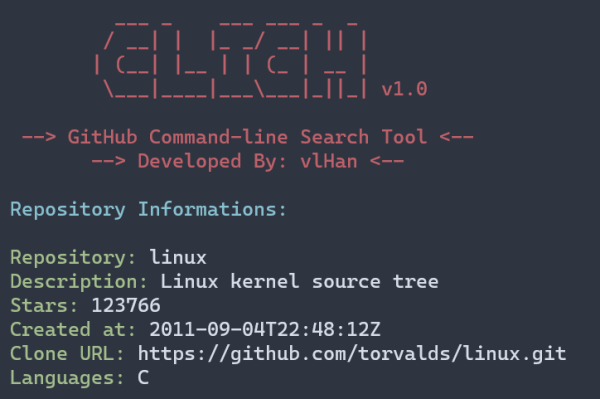
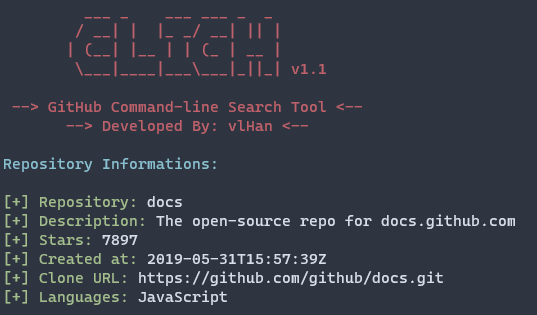
V1.1

diff --git a/modules/packages/display.py b/modules/packages/display.py
@@ -1,12 +1,12 @@
 # -*- coding: utf-8 -*-
 import requests
 from colorama import Style, Fore
-import sys
+import sys, os
 
 from modules.packages.exceptions import *
 
 __author__ = "vlHan"
-__version__ = "1.0"
+__version__ = "1.1"
 __license__ = "MIT"
 
 GITHUB_API_BASE = "https://api.github.com/"
@@ -15,8 +15,7 @@ RA = Style.RESET_ALL
 
 class cligh:
     def __init__(self, username: str, repository: str, endopoint: str) -> None:
-        """CLI Search tool for GitHub.
-        """
+        """CLI Search tool for GitHub."""
         self.username   = username
         self.repository = repository
         self.endpoint   = endopoint
@@ -30,20 +29,20 @@ class cligh:
         except requests.ConnectionError:
             raise requests.ConnectionError
 
-        if not "message" in response:
+        if req.status_code == 200:
             print(f"{Fore.CYAN}User Informations:{RA}\n")
             print(
-                f"{Fore.GREEN}Username:{RA} {response['login']}"
-                f"\n{Fore.GREEN}ID:{RA} {response['id']}"
-                f"\n{Fore.GREEN}Bio:{RA} {response['bio']}"
-                f"\n{Fore.GREEN}Location:{RA} {response['location']}"
-                f"\n{Fore.GREEN}Company:{RA} {response['company']}"
-                f"\n{Fore.GREEN}Web URL:{RA} {response['html_url']}"
-                f"\n{Fore.GREEN}Public Repos:{RA} {response['public_repos']}"
-                f"\n{Fore.GREEN}Blog/Website:{RA} {response['blog']}"
+                f"{Fore.GREEN}[+] Username:{RA} {response['login']}"
+                f"\n{Fore.GREEN}[+] ID:{RA} {response['id']}"
+                f"\n{Fore.GREEN}[+] Bio:{RA} {response['bio']}"
+                f"\n{Fore.GREEN}[+] Location:{RA} {response['location']}"
+                f"\n{Fore.GREEN}[+] Company:{RA} {response['company']}"
+                f"\n{Fore.GREEN}[+] Web URL:{RA} {response['html_url']}"
+                f"\n{Fore.GREEN}[+] Public Repos:{RA} {response['public_repos']}"
+                f"\n{Fore.GREEN}[+] Blog/Website:{RA} {response['blog']}"
             )
 
-            print()
+            print(" ")
             sys.exit(0)
 
         else:
@@ -58,17 +57,42 @@ class cligh:
         except requests.ConnectionError:
             raise requests.ConnectionError
 
-        if not "message" in response:
+        if req.status_code == 200:
             print(f"{Fore.CYAN}Repository Informations:{RA}\n")
             print(
-                f"{Fore.GREEN}Repository:{RA} {response['name']}"
-                f"\n{Fore.GREEN}Description:{RA} {response['description']}"
-                f"\n{Fore.GREEN}Stars:{RA} {response['stargazers_count']}"
-                f"\n{Fore.GREEN}Created at:{RA} {response['created_at']}"
-                f"\n{Fore.GREEN}Clone URL:{RA} {response['clone_url']}"
-                f"\n{Fore.GREEN}Languages:{RA} {response['language']}\n"
+                f"{Fore.GREEN}[+] Repository:{RA} {response['name']}"
+                f"\n{Fore.GREEN}[+] Description:{RA} {response['description']}"
+                f"\n{Fore.GREEN}[+] Stars:{RA} {response['stargazers_count']}"
+                f"\n{Fore.GREEN}[+] Created at:{RA} {response['created_at']}"
+                f"\n{Fore.GREEN}[+] Clone URL:{RA} {response['clone_url']}"
+                f"\n{Fore.GREEN}[+] Languages:{RA} {response['language']}\n"
             )
             sys.exit(0)
 
         else:
-            raise UserNameNotCorrect
+            raise RepositoryNotFound
+
+    def download_repository(self, ext) -> None:
+        """Download the user repository.
+        """
+        header = {"Accept": "application/vnd.github.v3+json"}
+        try:
+            req = requests.get(GITHUB_API_BASE + self.endpoint, headers=header)
+        except requests.ConnectionError:
+            raise requests.ConnectionError
+
+        if os.path.isfile(f"{self.repository}.zip") or os.path.isfile(f"{self.repository}.tar"):
+            print(f"{Fore.RED}The repository is already downloaded.{RA}")
+        else:
+            if req.status_code == 200:
+                print(f'{Fore.GREEN}[+] Owner:{RA} {self.username}')
+                print(f'{Fore.GREEN}[+] Diretory:{RA} /cligh/{self.repository}.{ext}')
+                print(f'{Fore.GREEN}[+] Display:{RA} {req.content[:10]}')
+                print(f'{Fore.GREEN}[+] Size:{RA} {len(req.content)}')
+                with open(f"cligh/{self.repository}.{ext}", "wb") as f:
+                    f.write(req.content)
+
+                print(f"\n{Fore.GREEN}Downloaded with success.{RA}")
+
+            else:
+                raise RepositoryNotFound

diff --git a/modules/main.py b/modules/main.py
@@ -1,0 +1,98 @@
+# -*- coding: utf-8 -*-
+import sys
+import argparse
+import requests
+import timeit
+
+from modules import *
+
+__author__ = "vlHan"
+__version__ = "1.1"
+__license__ = "MIT"
+
+
+class App:
+    def __init__(self) -> None:
+        self.init = timeit.default_timer()
+
+    @staticmethod
+    def _arguments() -> str:
+        """Parse arguments to use in the cli function.
+        """
+        banner()
+        parser = argparse.ArgumentParser(
+            description=f"CLIGH - Command-line Search tool for GitHub.",
+            usage="python3 \tcligh -u 'GithubUsername'\n\t\tcligh.py -u 'GithubUsername' -r 'RepositoryName'\n\t\tcligh -u 'vlHan' -d 'cligh' -e 'zip' -rf 'master'",
+        )
+        parser.add_argument(
+            "--version", "-v", action="version", version=f"v{__version__}"
+        )
+        parser.add_argument(
+            "-u", "--username", type=str, help="The username GitHub account."
+        )
+        parser.add_argument(
+            "-r",
+            "--repository",
+            type=str,
+            help="The repository from the GitHub user account.",
+        )
+        parser.add_argument('-d', '--download', type=str, help="Download the user repository.")
+        parser.add_argument(
+            "-e", "--ext", default='zip', type=str, help="Repository extension. (zip or tar)"
+        )
+        parser.add_argument(
+            "-rf", "--ref", default='main', type=str, help="The repository branch."
+        )
+        args = parser.parse_args()
+
+        if not args.username or not args.username:
+            parser.print_help()
+            sys.exit(1)
+
+        return args
+
+    @staticmethod
+    def main():
+        """Main function to run the program
+        """
+        args = App._arguments()
+
+        try:
+            if args.username and not args.repository and not args.download:
+                endpoint = f"users/{args.username}"
+                return cligh(args.username, args.repository, endpoint).display_user()
+
+            if args.username and args.repository and not args.download:
+                endpoint = f"repos/{args.username}/{args.repository}"
+                return cligh(
+                    args.username, args.repository, endpoint
+                ).display_repository()
+
+            if args.username and args.download:
+                endpoint = f'repos/{args.username}/{args.download}/{args.ext}ball/{args.ref}'
+                return cligh(
+                        args.username, args.download, endpoint
+                    ).download_repository(args.ext)
+            
+        except requests.ConnectionError:
+            print(
+                "Connection Error:",
+                end=" " f"{Fore.RED}Could not connect with the GitHub API.{RA}",
+            )
+        except UserNameNotCorrect:
+            print(f"{Fore.RED}The username is not correct.{RA}")
+        except RepositoryNotFound: 
+            print(f"{Fore.RED}Could not found the requested repository.{RA}")
+
+    def run(self):
+        """This function use main() and count the time
+        """
+        banner()
+        App.main()
+        print(" ")
+        print("*"*30)
+        print("[+] Thanks for using!")
+        end = timeit.default_timer()
+        
+        print("[+] RUNTIME: %f seconds" % (end - self.init))
+        print("*"*30)

diff --git a/__main__.py b/__main__.py
@@ -1,69 +1,10 @@
 # -*- coding: utf-8 -*-
-import sys
-import argparse
-import requests
-
-from modules import *
+from modules.main import *
 
 __author__ = "vlHan"
-__version__ = "1.0"
+__version__ = "1.1"
 __license__ = "MIT"
 
 
-class App:
-    @staticmethod
-    def _arguments() -> str:
-        """Parse arguments to use in the cli function."""
-        clear()
-        banner()
-        parser = argparse.ArgumentParser(
-            description=f"CLIGH - Command-line Search tool for GitHub.",
-            usage="python3 \tcligh -u 'GithubUsername'\n\t\tcligh.py -u 'GithubUsername' -r 'RepositoryName'",
-        )
-        parser.add_argument(
-            "--version", "-v", action="version", version=f"V{__version__}"
-        )
-        parser.add_argument(
-            "-u", "--username", type=str, help="[+] The username GitHub account."
-        )
-        parser.add_argument(
-            "-r",
-            "--repository",
-            type=str,
-            help="[+] The repository from the GitHub user account.",
-        )
-
-        args = parser.parse_args()
-
-        if not args.username or not args.username:
-            parser.print_help()
-            sys.exit(1)
-
-        return args
-
-    @staticmethod
-    def main():
-        args = App._arguments()
-
-        try:
-            if args.username and not args.repository:
-                endpoint = f"users/{args.username}"
-                return cligh(args.username, args.repository, endpoint).display_user()
-
-            if args.username and args.repository:
-                endpoint = f"repos/{args.username}/{args.repository}"
-                return cligh(
-                    args.username, args.repository, endpoint
-                ).display_repository()
-            
-        except requests.ConnectionError:
-            print(
-                "Connection Error:",
-                end=" " f"{Fore.RED}Could not connect with the GitHub API.{RA}",
-            )
-        except UserNameNotCorrect:
-            print(f"{Fore.RED}The username is not correct.{RA}")
-
-
 if __name__ == "__main__":
-    App.main()
+    App().run()

diff --git a/modules/interface/banner.py b/modules/interface/banner.py
@@ -3,15 +3,16 @@
 import os 
 from colorama import Style, Fore
 
+def clear() -> None:
+	"""Clear your terminal"""
+	os.system(['clear', 'cls'][os.name == 'nt'])
+
 
 def banner() -> None:
+    clear()
     try:
         with open("modules/interface/ui.txt", "r") as file:
             print(f"{Fore.RED}{file.read()}{Style.RESET_ALL}")
     except FileNotFoundError:
         with open("cligh/modules/interface/ui.txt", "r") as file:
             print(f"{Fore.RED}{file.read()}{Style.RESET_ALL}")
-
-def clear() -> None:
-	"""Clear your terminal"""
-	os.system(['clear', 'cls'][os.name == 'nt'])

diff --git a/modules/packages/exceptions.py b/modules/packages/exceptions.py
@@ -2,3 +2,7 @@
 
 class UserNameNotCorrect(Exception): 
     pass
+
+class RepositoryNotFound(Exception): 
+    pass
+

diff --git a/README.md b/README.md
@@ -9,6 +9,7 @@
 
 cligh is a command-line search tool for GitHub.
 
+This is a project that I developed to learn more about HTTP requests, using the GitHub API :octoact:
 
 ## Installation
 
@@ -28,18 +29,36 @@ Clone this repository: `git clone https://github.com/vlHan/cligh` or <a href="ht
 
 ## Usage
 ```py
+python3 cligh [OPTION]
+
 # usage (out of the diretory): 
-python3 cligh -u 'GithubUsername'
-        cligh -u 'GithubUsername' -r 'RepositoryName'
+python3 cligh -u 'GITHUBUSERNAME'
+        cligh -u 'GITHUBUSERNAME' -r 'REPOSITORYNAME'
+        cligh -u 'GITHUBUSERNAME' -d 'REPOSITORYNAME' -e 'EXTENSION' -rf 'BRANCH'  
 
 examples: 
 
 # see informations about a profile 
-python3 cligh -u 'vlHan'
+python3 cligh -u 'github'
 
 # see informations about a repository
-python3 cligh -u 'vlHan' -r 'cligh'
+python3 cligh -u 'github' -r 'github'
+
+# download a .zip repository 
+python3 cligh -u 'github' -d 'docs' -e 'zip' -rf 'master'  
 ```
+
+## Options
+```
+  -h, --help            show this help message and exit
+  --version, -v         show program's version number and exit
+  -u, --username        The username GitHub account.
+  -r, --repository      The repository from the GitHub user account.
+  -d, --download        Download the user repository.
+  -e, --ext             Repository extension. (zip or tar)
+  -rf, --ref            The repository branch.
+```
+
 
 ### Userprofile Search
 
@@ -48,6 +67,10 @@ python3 cligh -u 'vlHan' -r 'cligh'
 ### Repository Search
 
 <img src="./demo/repository.png">
+
+### Downlaod Repository
+
+<img src="./demo/download_repo.png">
 
 ## License
 This project is under [MIT License](LICENSE)
